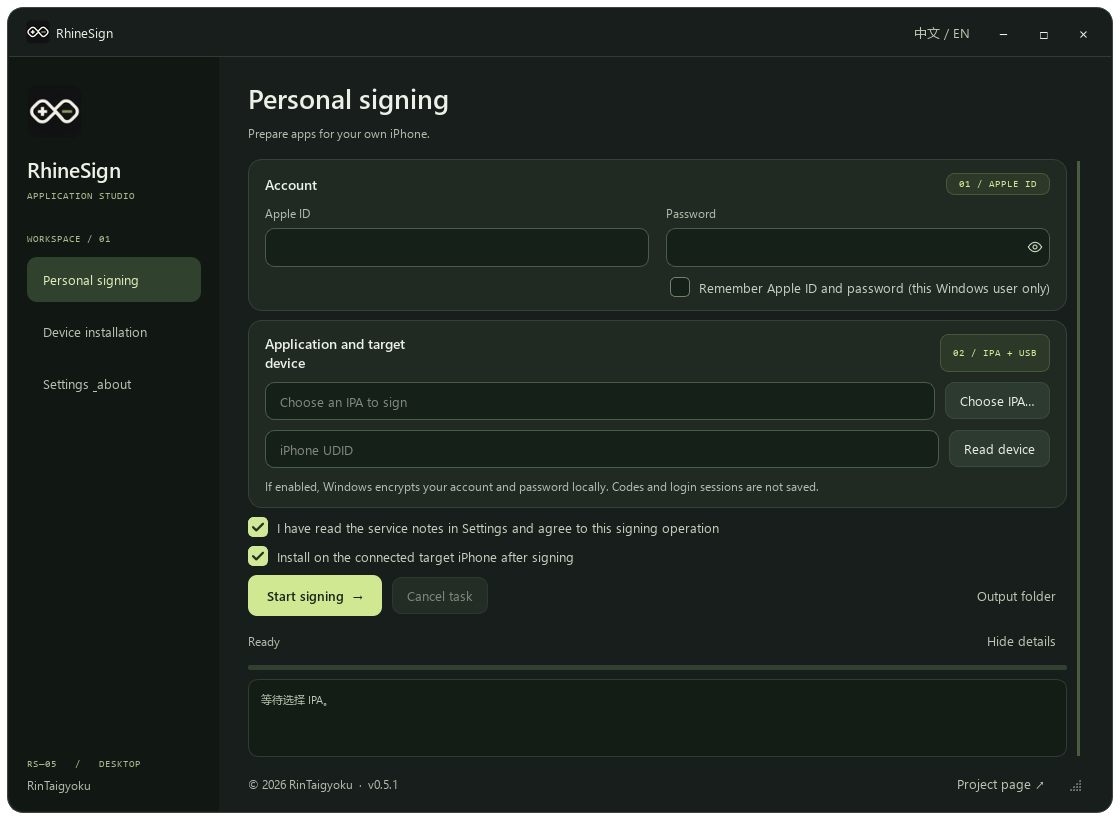
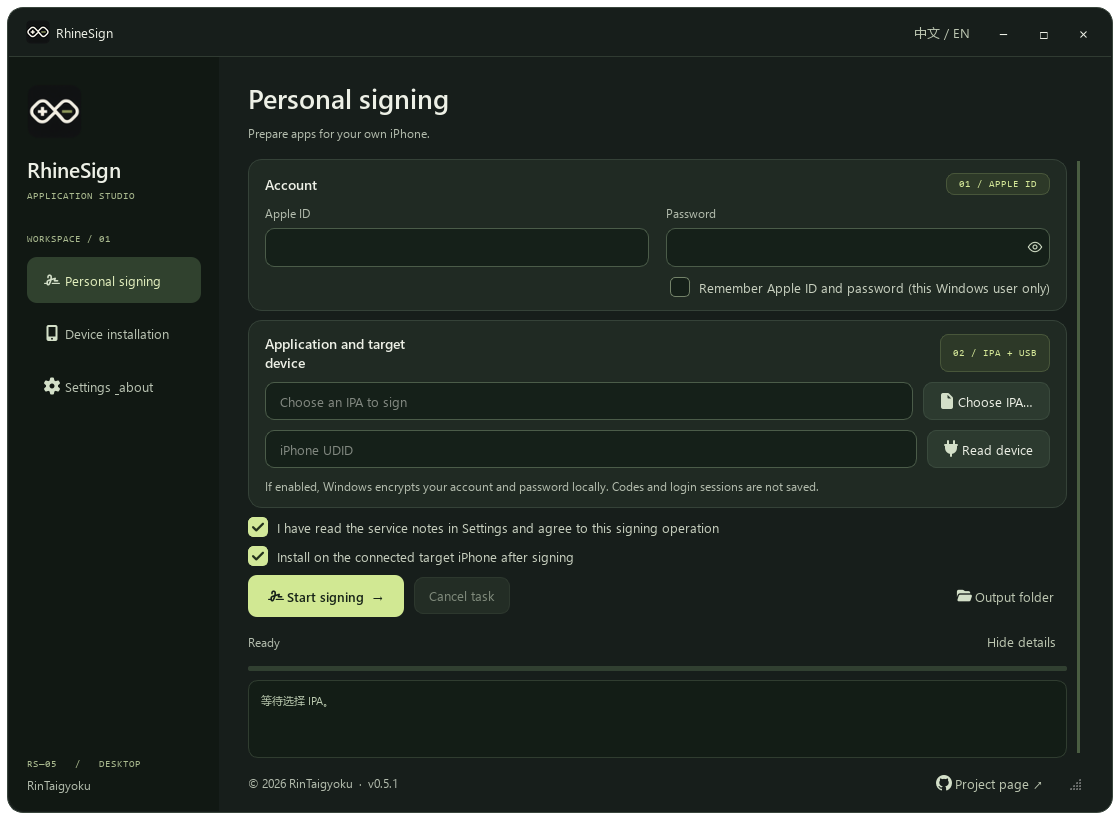
Diagnose local archive failures independently of Apple login

diff --git a/window.py b/window.py
@@ -73,13 +73,13 @@ class RhineWindow(QMainWindow,Operations,AuthDialogs):
         side=QFrame();side.setObjectName('sidebar');side.setFixedWidth(210);nav=QVBoxLayout(side);nav.setContentsMargins(18,27,18,18);nav.setSpacing(7)
         badge=QLabel();badge.setPixmap(self.app_icon.pixmap(55,55));nav.addWidget(badge);nav.addSpacing(9);nav.addWidget(label('RhineSign','brand'));nav.addWidget(label('APPLICATION STUDIO','eyebrow'));nav.addSpacing(24);nav.addWidget(label('WORKSPACE / 01','eyebrow'));nav.addSpacing(5);self.nav=[]
         for key,text in [('sign','个人签名'),('install','设备安装'),('settings','设置与关于')]:
-            b=Button(t(text),lambda checked=False,k=key:self.show(k));b.setObjectName('nav');b.setCheckable(True);nav.addWidget(b);self.nav.append((key,b))
+            b=Button(t(text),lambda checked=False,k=key:self.show(k),icon={'sign':'sign','install':'device','settings':'settings'}[key]);b.setObjectName('nav');b.setCheckable(True);nav.addWidget(b);self.nav.append((key,b))
         nav.addStretch();nav.addWidget(label('RS—05   /   DESKTOP','eyebrow'));nav.addWidget(label('RinTaigyoku','muted'));body.addWidget(side)
         content=QWidget();main=QVBoxLayout(content);main.setContentsMargins(29,23,29,12);main.setSpacing(9)
         self.heading=label('','headline');self.subtitle=label('','muted');main.addWidget(self.heading);main.addWidget(self.subtitle);main.addSpacing(9);self.stack=QStackedWidget();main.addWidget(self.stack,1);self.pages={};self.page_layouts={}
         for key in ('sign','install','settings'):
             scroll=QScrollArea();scroll.setWidgetResizable(True);inner=QWidget();layout=QVBoxLayout(inner);layout.setContentsMargins(0,0,8,3);layout.setSpacing(9);scroll.setWidget(inner);self.stack.addWidget(scroll);self.pages[key]=scroll;self.page_layouts[key]=layout
-        self.build_sign();self.build_install();self.build_settings();foot=QHBoxLayout();credit=label('© 2026 RinTaigyoku  ·  v'+VERSION,'muted');credit.setWordWrap(False);foot.addWidget(credit);foot.addStretch();link=Button(t('项目主页 ↗'),lambda:webbrowser.open(PROJECT));link.setObjectName('quiet');foot.addWidget(link);foot.addWidget(QSizeGrip(self));main.addLayout(foot)
+        self.build_sign();self.build_install();self.build_settings();foot=QHBoxLayout();credit=label('© 2026 RinTaigyoku  ·  v'+VERSION,'muted');credit.setWordWrap(False);foot.addWidget(credit);foot.addStretch();link=Button(t('项目主页 ↗'),lambda:webbrowser.open(PROJECT),icon='github');link.setObjectName('quiet');foot.addWidget(link);foot.addWidget(QSizeGrip(self));main.addLayout(foot)
         body.addWidget(content,1);self.setCentralWidget(central);self.show(self.page)
     def field(self,grid,r,c,text,var,password=False):
         group=QVBoxLayout();group.setSpacing(7);group.addWidget(label(t(text),'muted'));entry=Entry();var.bind(entry)
@@ -91,10 +91,10 @@ class RhineWindow(QMainWindow,Operations,AuthDialogs):
         self.remember_check=Check(t('记住 Apple ID 和密码（仅当前 Windows 用户）'));self.remember.bind(self.remember_check);self.remember_check.toggled.connect(self.remember_changed)
         email.editingFinished.connect(self.persist_account);password.editingFinished.connect(self.persist_account)
         box.addLayout(row(None,self.remember_check));layout.addWidget(account)
-        app,box=card('应用与目标设备','02 / IPA + USB');entry=Entry();entry.setPlaceholderText(t('选择要签名的 IPA'));self.ipa.bind(entry);self.entries.append(entry);self.browse=Button(t('选择 IPA…'),self.pick_ipa);box.addLayout(row(entry,self.browse))
-        entry=Entry();entry.setPlaceholderText('iPhone UDID');self.udid.bind(entry);self.entries.append(entry);self.paste=Button(t('读取设备'),self.use_device);box.addLayout(row(entry,self.paste));box.addWidget(label(t('勾选记住后账号密码由 Windows 加密保存在本机；验证码与登录会话不保存。'),'muted'));layout.addWidget(app)
+        app,box=card('应用与目标设备','02 / IPA + USB');entry=Entry();entry.setPlaceholderText(t('选择要签名的 IPA'));self.ipa.bind(entry);self.entries.append(entry);self.browse=Button(t('选择 IPA…'),self.pick_ipa,icon='file');box.addLayout(row(entry,self.browse))
+        entry=Entry();entry.setPlaceholderText('iPhone UDID');self.udid.bind(entry);self.entries.append(entry);self.paste=Button(t('读取设备'),self.use_device,icon='plug');box.addLayout(row(entry,self.paste));box.addWidget(label(t('勾选记住后账号密码由 Windows 加密保存在本机；验证码与登录会话不保存。'),'muted'));layout.addWidget(app)
         self.check=Check(t('已阅读设置页的服务说明，同意本次个人签名'));self.consent.bind(self.check);layout.addWidget(self.check);self.auto=Check(t('签名完成后安装到已连接的目标 iPhone'));self.auto_install.bind(self.auto);layout.addWidget(self.auto)
-        self.start_button=Button(t('开始个人签名  →'),self.start,True);self.cancel_button=Button(t('取消任务'),self.cancel);self.cancel_button.setEnabled(False);output=Button(t('输出文件夹'),self.open_output);output.setObjectName('quiet');layout.addLayout(row(self.start_button,self.cancel_button,None,output))
+        self.start_button=Button(t('开始个人签名  →'),self.start,True,icon='sign');self.cancel_button=Button(t('取消任务'),self.cancel);self.cancel_button.setEnabled(False);output=Button(t('输出文件夹'),self.open_output,icon='folder');output.setObjectName('quiet');layout.addLayout(row(self.start_button,self.cancel_button,None,output))
         self.status.set(t('准备就绪'));status=label('','muted');self.status.bind(status);self.log=QPlainTextEdit();self.log.setReadOnly(True);self.log.setMaximumBlockCount(180);self.log.setFixedHeight(78)
         details=Button(t('收起详情'));details.setObjectName('quiet')
         def toggle_details():
@@ -104,19 +104,19 @@ class RhineWindow(QMainWindow,Operations,AuthDialogs):
         layout.addStretch()
     def build_install(self):
         layout=self.page_layouts['install'];device,box=card('USB 连接','01 / DEVICE');box.addWidget(label(t('用数据线连接 iPhone，解锁后信任此电脑。'),'muted'))
-        self.selector=Combo();self.selector.addItems(self.device_labels());self.device_choice.bind(self.selector);self.refresh=Button(t('刷新设备'),self.refresh_devices);box.addLayout(row(self.selector,self.refresh));self.connect_button=Button(t('连接并读取设备信息'),self.connect_device);box.addLayout(row(self.connect_button,None))
+        self.selector=Combo();self.selector.addItems(self.device_labels());self.device_choice.bind(self.selector);self.refresh=Button(t('刷新设备'),self.refresh_devices,icon='refresh');box.addLayout(row(self.selector,self.refresh));self.connect_button=Button(t('连接并读取设备信息'),self.connect_device,icon='plug');box.addLayout(row(self.connect_button,None))
         self.device_status.set(t('尚未连接设备'));status=label('','muted');self.device_status.bind(status);box.addWidget(status)
-        self.driver_download=Button(t('安装 Apple 设备软件 ↗'),self.open_device_download);self.driver_download.setObjectName('quiet');box.addLayout(row(self.driver_download,Button(t('官方安装帮助 ↗'),self.open_driver_help),None));layout.addWidget(device)
-        package,box=card('安装已签名 IPA','02 / INSTALL');box.addWidget(label(t('安装不需要重新登录 Apple ID；签名必须有效且适用于这台设备。'),'muted'));self.install_entry=Entry();self.install_ipa.bind(self.install_entry);self.install_pick=Button(t('选择 IPA…'),self.pick_install);box.addLayout(row(self.install_entry,self.install_pick))
-        self.install_button=Button(t('安装到 iPhone  →'),self.start_install,True);self.install_cancel=Button(t('取消任务'),self.cancel);self.install_cancel.setEnabled(False);box.addLayout(row(self.install_button,self.install_cancel,None));self.install_status.set(t('等待安装'));status=label('','muted');self.install_status.bind(status);box.addWidget(status);self.install_progress=Progress();box.addWidget(self.install_progress);layout.addWidget(package)
+        self.driver_download=Button(t('安装 Apple 设备软件 ↗'),self.open_device_download,icon='download');self.driver_download.setObjectName('quiet');box.addLayout(row(self.driver_download,Button(t('官方安装帮助 ↗'),self.open_driver_help,icon='help'),None));layout.addWidget(device)
+        package,box=card('安装已签名 IPA','02 / INSTALL');box.addWidget(label(t('安装不需要重新登录 Apple ID；签名必须有效且适用于这台设备。'),'muted'));self.install_entry=Entry();self.install_ipa.bind(self.install_entry);self.install_pick=Button(t('选择 IPA…'),self.pick_install,icon='file');box.addLayout(row(self.install_entry,self.install_pick))
+        self.install_button=Button(t('安装到 iPhone  →'),self.start_install,True,icon='device');self.install_cancel=Button(t('取消任务'),self.cancel);self.install_cancel.setEnabled(False);box.addLayout(row(self.install_button,self.install_cancel,None));self.install_status.set(t('等待安装'));status=label('','muted');self.install_status.bind(status);box.addWidget(status);self.install_progress=Progress();box.addWidget(self.install_progress);layout.addWidget(package)
         self.install_log=QPlainTextEdit();self.install_log.setReadOnly(True);self.install_log.setMaximumBlockCount(180);self.install_log.setFixedHeight(78);layout.addWidget(self.install_log)
         for text in self.logs[-180:]:self.install_log.appendPlainText(text)
         layout.addWidget(label(t('安装失败时保留当前 App，不自动卸载。需要 Apple 的 USB 驱动和设备服务。'),'muted'));layout.addStretch()
     def build_settings(self):
-        layout=self.page_layouts['settings'];about,box=card('署名','RHINESIGN / '+VERSION);box.addWidget(label('RinTaigyoku','brand'));box.addLayout(row(Button(t('GitHub 项目 ↗'),lambda:webbrowser.open(PROJECT)),Button(t('下载与更新 ↗'),lambda:webbrowser.open(PROJECT+'/releases')),Button(t('许可证'),self.open_license),None));layout.addWidget(about)
+        layout=self.page_layouts['settings'];about,box=card('署名','RHINESIGN / '+VERSION);box.addWidget(label('RinTaigyoku','brand'));box.addLayout(row(Button(t('GitHub 项目 ↗'),lambda:webbrowser.open(PROJECT),icon='github'),Button(t('哔哩哔哩主页 ↗'),self.open_bilibili,icon='bilibili'),Button(t('下载与更新 ↗'),lambda:webbrowser.open(PROJECT+'/releases'),icon='download'),Button(t('许可证'),self.open_license,icon='license'),None));layout.addWidget(about)
         for title,code,text in [('服务说明','AUTH / PRIVACY','认证请求发送给 Apple，认证辅助数据来自 ani.iloader.app。记住账号默认关闭；开启后账号密码由 Windows 当前用户加密保存，取消勾选会删除。验证码与登录会话不保存。签名密钥同样在本机加密保存。'),('使用限制','ACCOUNT / DEVICE','个人账户的有效期、设备与 App 数量由 Apple 限制。签名暂不支持带 App Extension 的 IPA；设备安装不提供绕过签名或开发者模式的功能。')]:
             frame,box=card(title,code);box.addWidget(label(t(text),'muted'));layout.addWidget(frame)
-        help_card,box=card('连接帮助','HELP / USB');box.addWidget(label(t('首次连接：安装 Apple 设备软件，解锁 iPhone 并信任电脑，再回到设备安装页刷新。'),'muted'));box.addLayout(row(Button(t('安装 Apple 设备软件 ↗'),self.open_device_download),Button(t('官方安装帮助 ↗'),self.open_driver_help),None));layout.addWidget(help_card)
+        help_card,box=card('连接帮助','HELP / USB');box.addWidget(label(t('首次连接：安装 Apple 设备软件，解锁 iPhone 并信任电脑，再回到设备安装页刷新。'),'muted'));box.addLayout(row(Button(t('安装 Apple 设备软件 ↗'),self.open_device_download,icon='download'),Button(t('官方安装帮助 ↗'),self.open_driver_help,icon='help'),None));layout.addWidget(help_card)
         layout.addStretch()
     def show(self,page=None):
         if page is None:return super().show()

diff --git a/qt_helpers.py b/qt_helpers.py
@@ -1,5 +1,7 @@
-from PySide6.QtCore import QObject, Signal, Slot
-from PySide6.QtGui import QAction,QIcon
+from PySide6.QtCore import QObject, Signal, Slot,Qt,QSize,QRectF
+from PySide6.QtGui import QAction,QIcon,QPixmap,QPainter,QColor
+from PySide6.QtSvg import QSvgRenderer
+from functools import lru_cache
 from PySide6.QtWidgets import QPushButton,QLineEdit,QCheckBox,QComboBox,QProgressBar,QMessageBox,QFileDialog
 from i18n import tr as t
 
@@ -36,10 +38,26 @@ class Configurable:
         if 'values'in values:self.clear();self.addItems(values['values'])
 
 class Button(QPushButton,Configurable):
-    def __init__(self,text,action=None,primary=False):
+    def __init__(self,text,action=None,primary=False,icon=None):
         super().__init__(text);self.setCursor(__import__('PySide6.QtCore',fromlist=['Qt']).Qt.PointingHandCursor)
         if action:self.clicked.connect(action)
         if primary:self.setObjectName('primary')
+        if icon:self.setIcon(button_icon(icon,primary));self.setIconSize(QSize(18,18))
+
+@lru_cache(maxsize=40)
+def button_icon(name,primary=False):
+    from security import BUNDLE
+    renderer=QSvgRenderer(str(BUNDLE/'assets/fontawesome'/(name+'.svg')))
+    if not renderer.isValid():raise ValueError('Missing interface icon')
+    icon=QIcon();source=renderer.defaultSize()
+    for size in (18,24,36,48,64):
+        for mode,color in ((QIcon.Normal,'#152019'if primary else'#d3dfc8'),(QIcon.Disabled,'#788570')):
+            pixmap=QPixmap(size,size);pixmap.fill(Qt.transparent);painter=QPainter(pixmap)
+            scale=(size-2)/max(source.width(),source.height());w=source.width()*scale;h=source.height()*scale
+            renderer.render(painter,QRectF((size-w)/2,(size-h)/2,w,h))
+            painter.setCompositionMode(QPainter.CompositionMode_SourceIn);painter.fillRect(pixmap.rect(),QColor(color));painter.end()
+            icon.addPixmap(pixmap,mode)
+    return icon
 class Entry(QLineEdit,Configurable):pass
 class Check(QCheckBox,Configurable):pass
 class Progress(QProgressBar,Configurable):

diff --git a/i18n.py b/i18n.py
@@ -8,6 +8,7 @@ def set_language(value):
     _language=value
 
 EN={
+'哔哩哔哩主页 ↗':'Bilibili profile ↗',
 '关闭':'Close',
 '安装 Apple 设备软件 ↗':'Get Apple Devices ↗','官方安装帮助 ↗':'Official setup help ↗','连接帮助':'Connection help',
 '首次连接：安装 Apple 设备软件，解锁 iPhone 并信任电脑，再回到设备安装页刷新。':'First connection: install Apple Devices, unlock and trust your iPhone, then refresh the Devices page.',

diff --git a/scripts/package.py b/scripts/package.py
@@ -30,3 +30,4 @@ for distribution in ('PySide6-Essentials','shiboken6'):
                 target=out/'Qt-Licenses'/distribution/str(item).replace('..','_')
                 target.parent.mkdir(parents=True,exist_ok=True);shutil.copyfile(source,target)
 shutil.copyfile(r/'QT-SOURCE.txt',out/'QT-SOURCE.txt')
+shutil.copytree(r/'licenses',out/'licenses',dirs_exist_ok=True)

diff --git a/operations.py b/operations.py
@@ -40,6 +40,8 @@ def cleanup_workspace(path, pid, base=BASE):
 
 class Operations:
 
+    def open_bilibili(self):webbrowser.open('https://space.bilibili.com/630856108')
+
     def open_device_download(self):webbrowser.open(APPLE_DEVICES)
 
     def open_driver_help(self):webbrowser.open('https://support.apple.com/'+('zh-cn'if language()=='zh'else'en-us')+'/118290')

diff --git a/README.md b/README.md
@@ -14,7 +14,7 @@
 
 我做这个工具，是想把选择 IPA、个人签名和安装放到一个窗口里。账号认证失败时，至少能看清失败在哪一步，而不是只得到一句“账号或密码错误”。
 
-支持中文和英文。由 **RinTaigyoku** 维护；这是社区工具，与 Apple 没有官方合作关系。
+支持中文和英文。由 **RinTaigyoku** 维护 · [哔哩哔哩主页](https://space.bilibili.com/630856108)。这是社区工具，与 Apple 没有官方合作关系。
 
 ## 能做什么
 
@@ -109,6 +109,8 @@ python scripts/package.py
 Windows 发布流程在 `.github/workflows/build.yml`。发布附带校验和、依赖许可和对应源码，修改后可以重新编译并替换 `_internal/engine/rhinesign-engine.exe`。Python 3.12，Rust stable。
 
 自己的代码采用 MIT 许可。依赖保留各自许可，特别是修改后的 `apple-codesign-quick` 采用 LGPL-2.1-or-later，对应源码随每次发布提供。
+
+界面常用图标采用 [Font Awesome Free](https://fontawesome.com/) 7.3.1，由 Fonticons, Inc. 提供，SVG 图标遵循 [CC BY 4.0](https://creativecommons.org/licenses/by/4.0/)；原始文件与署名保留，程序只在显示时调整颜色和尺寸。GitHub、哔哩哔哩品牌图标分别用于对应服务链接。完整说明见 [第三方许可](THIRD_PARTY_NOTICES.txt)。
 
 ## English
 

diff --git a/CHANGELOG.md b/CHANGELOG.md
@@ -8,6 +8,7 @@
 - 密码和双重验证码输入框增加显示／隐藏按钮，默认隐藏。
 - 最小化按钮增加中英提示，补充窗口最小化与恢复检查。
 - 设备安装和设置页增加 Apple 设备官方商店下载与安装帮助入口。
+- 导航和常用操作使用 Font Awesome 图标，设置页增加维护者哔哩哔哩主页链接。
 - 打包、资源校验及保存阶段分别报告，显示本地故障分类，避免误导为认证失败。
 - 新增不登录 Apple 的离线重打包检查入口。
 
